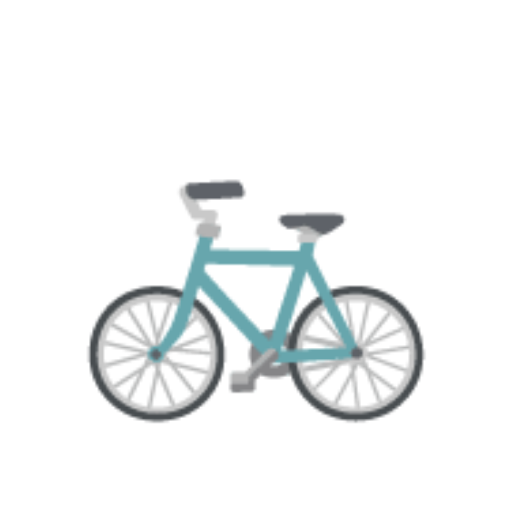
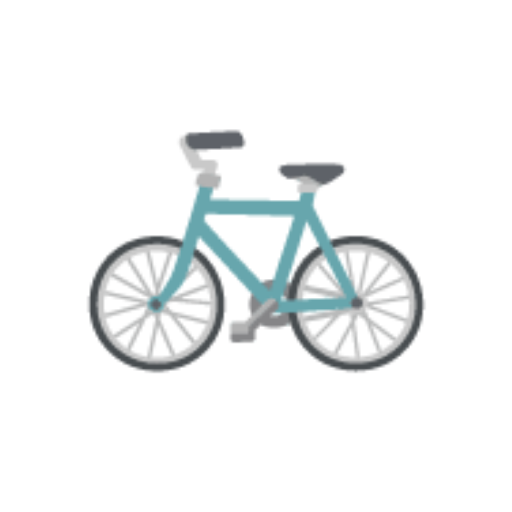
Ícono PWA definitivo: emoji centrado con translateY(-17%)
Compensa el espacio invisible inferior del emoji para que quede
visualmente centrado en el ícono. Bump cache v4.

https://claude.ai/code/session_01AJjfs3wFjA3d44SUoNrH45

Changed region(s): [[0.1562, 0.25, 0.8438, 0.8438]]

diff --git a/sw.js b/sw.js
@@ -1,5 +1,5 @@
 // Incrementar este número cada vez que se actualice el catálogo
-const CACHE = 'repuestos-jorge-v3';
+const CACHE = 'repuestos-jorge-v4';
 
 const PRECACHE = [
   './index.html',
